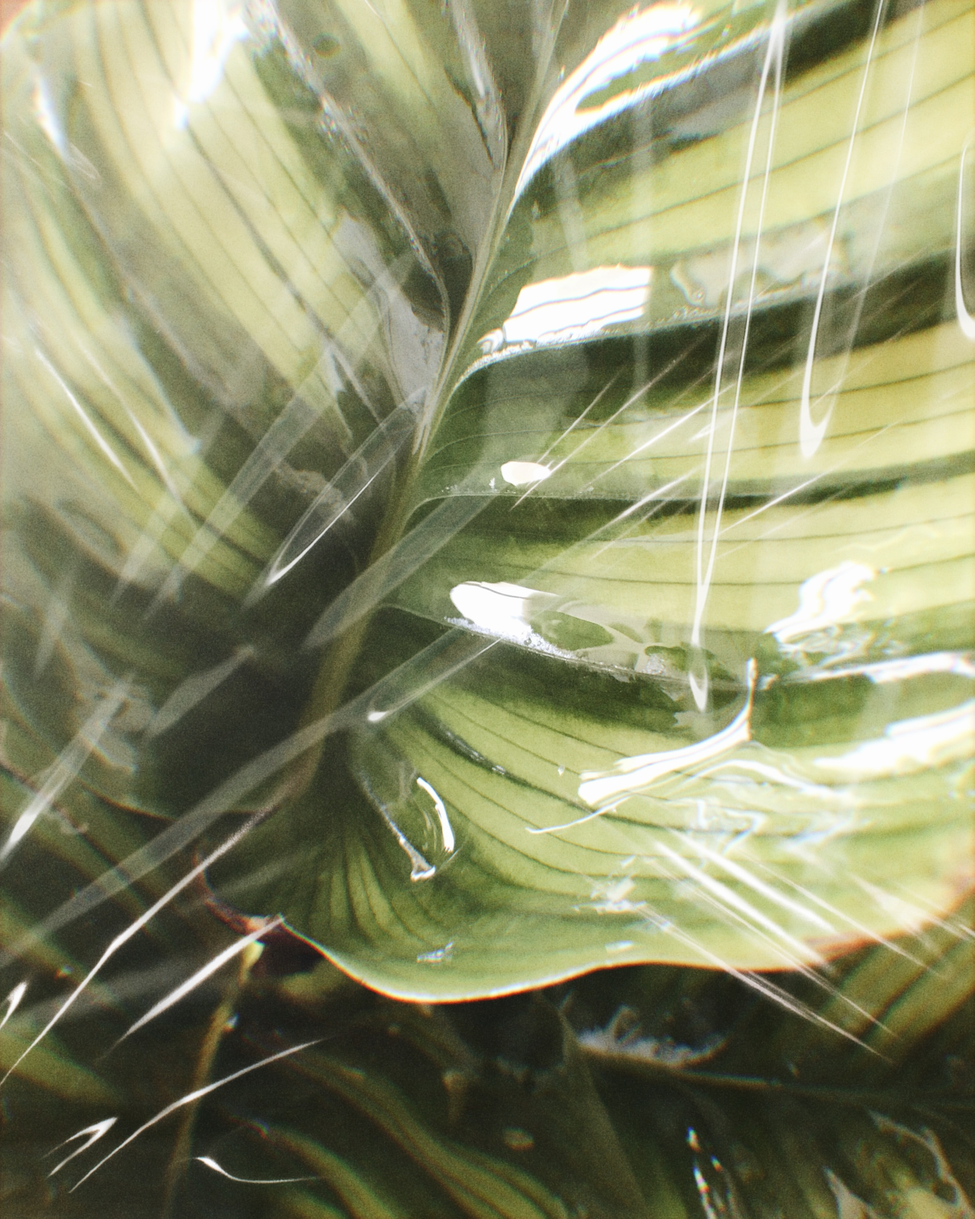
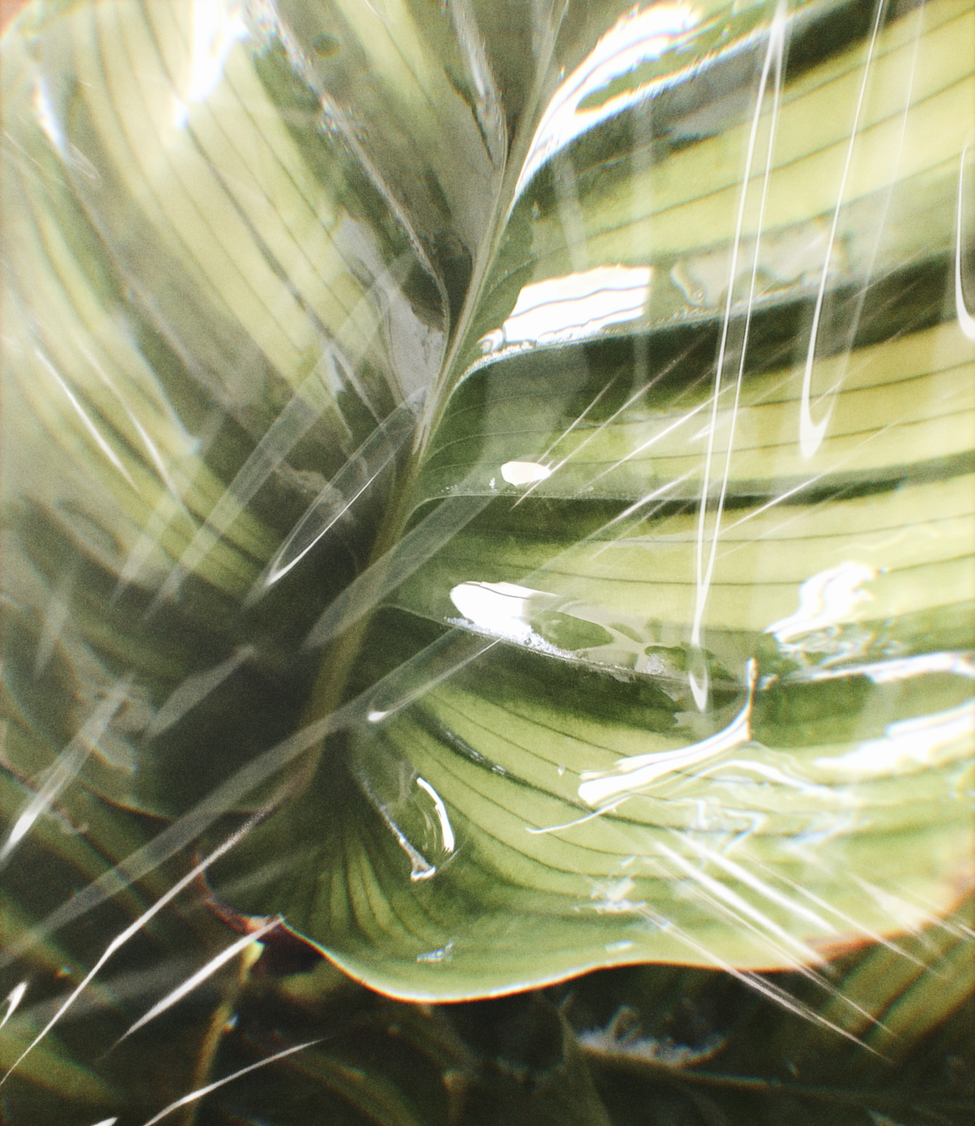
Briley Sauceda
CSS

diff --git a/assets/css/style.css b/assets/css/style.css
@@ -112,6 +112,7 @@ a {
     font-family:'Arya';
     color: #524E43;
     width: 50%;
+    margin-left:5%;
 }
 
 .sectionB-h2 {
@@ -122,9 +123,16 @@ a {
     color: #524E43;
 }
 
-.sectionB-img>img{
+.sectionB-img{
     width: 50%;
+    margin-right:5%;
 }
+
+.sectionB-img>img {
+    width:100%;
+    height:70vh;
+}
+
 
 .sectionB-text > p{
     font-size: 2vh;
@@ -150,15 +158,6 @@ a {
     margin: 0 auto;
     font-size: 6rem;
     text-shadow: 0px 4px 4px #00000025 ;
-}
-
-footer {
-    background: #B5CEDA;
-}
-
-footer h2 {
-    font-weight: normal;
-    font-size: 3rem;
 }
 
 .flexDaddy {
@@ -192,6 +191,15 @@ footer h2 {
 
 
 /*footer*/
+
+footer {
+    background: #B5CEDA;
+}
+
+footer h2 {
+    font-weight: normal;
+}
+
 .topft{
     display: flex;
 }
@@ -208,13 +216,8 @@ footer h2 {
 }
 
 .ftcont>img{
-    width: 30%
+    width: 18%;
 }
-
-.ftlogo{
-    width: 100%;
-}
-
 
 .BottomRightCorner{
     width: 30%;
@@ -234,4 +237,29 @@ footer h2 {
 
 .linklst{
     
+}
+
+.nav-selection {
+    display: flex;
+    list-style: none;
+    text-decoration:none;
+    margin-right: 2rem;
+}
+
+.nav-items {
+    font-family: 'Arya', sans-serif;
+    display: flex;
+    align-items: center;
+    margin: 0 0.8rem;
+    padding: auto 0;
+}
+
+.logo {
+    font-family: 'Anton', sans-serif;
+    margin-left:120px;
+}
+
+.logo a {
+    display: flex;
+    align-items: center;
 }

diff --git a/index.html b/index.html
@@ -88,13 +88,28 @@
     </div>
 
     <footer>
-        <div class="topft">
-          <h2>PROJECT PROTECT</h2>
-        <nav>
-            <a href="">The Problem</a>
-            <a href="">Make A Change</a>
-            <!-- add links above -->
-        </nav>  
+        <div class="nav-bar">
+            <div class="logo">
+                <a href="index.html">
+                    <h2>PROJECT PROTECT</h2>
+                </a>
+            </div>
+                <ul class="nav-selection">
+                    <li class="nav-items">
+                        <a href="theProblem.html">
+                            <h2>
+                                The Problem
+                            </h2>
+                        </a>
+                    </li>
+                    <li class="nav-items">
+                        <a href="makeAchange.html">
+                            <h2>
+                                Make A Change
+                            </h2>
+                        </a>
+                    </li>
+                </ul>
         </div>
         <div class="ftcont">
             <img class="ftlogo" src="assets/img/logo.png" alt="The Project protect logo, a wireframe render of a sphere">
